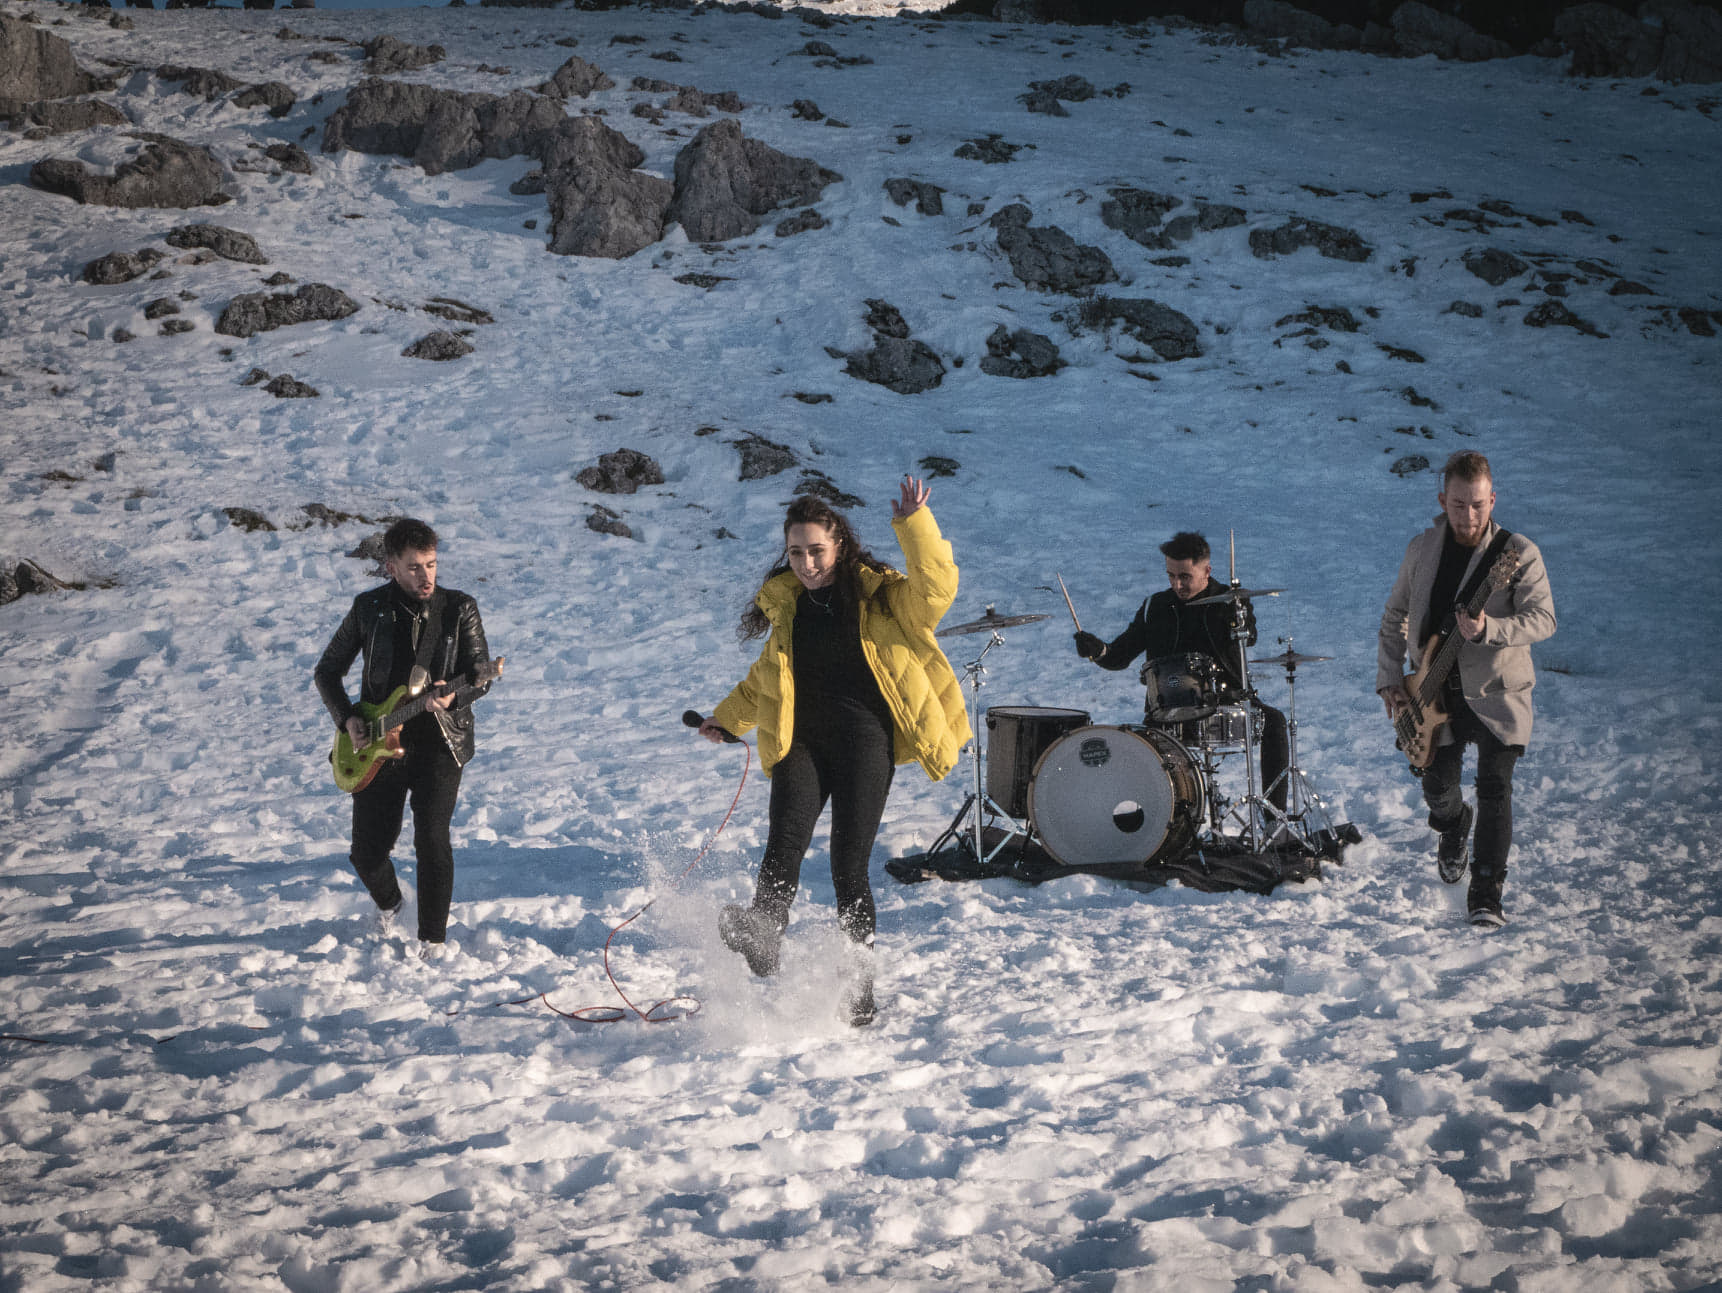
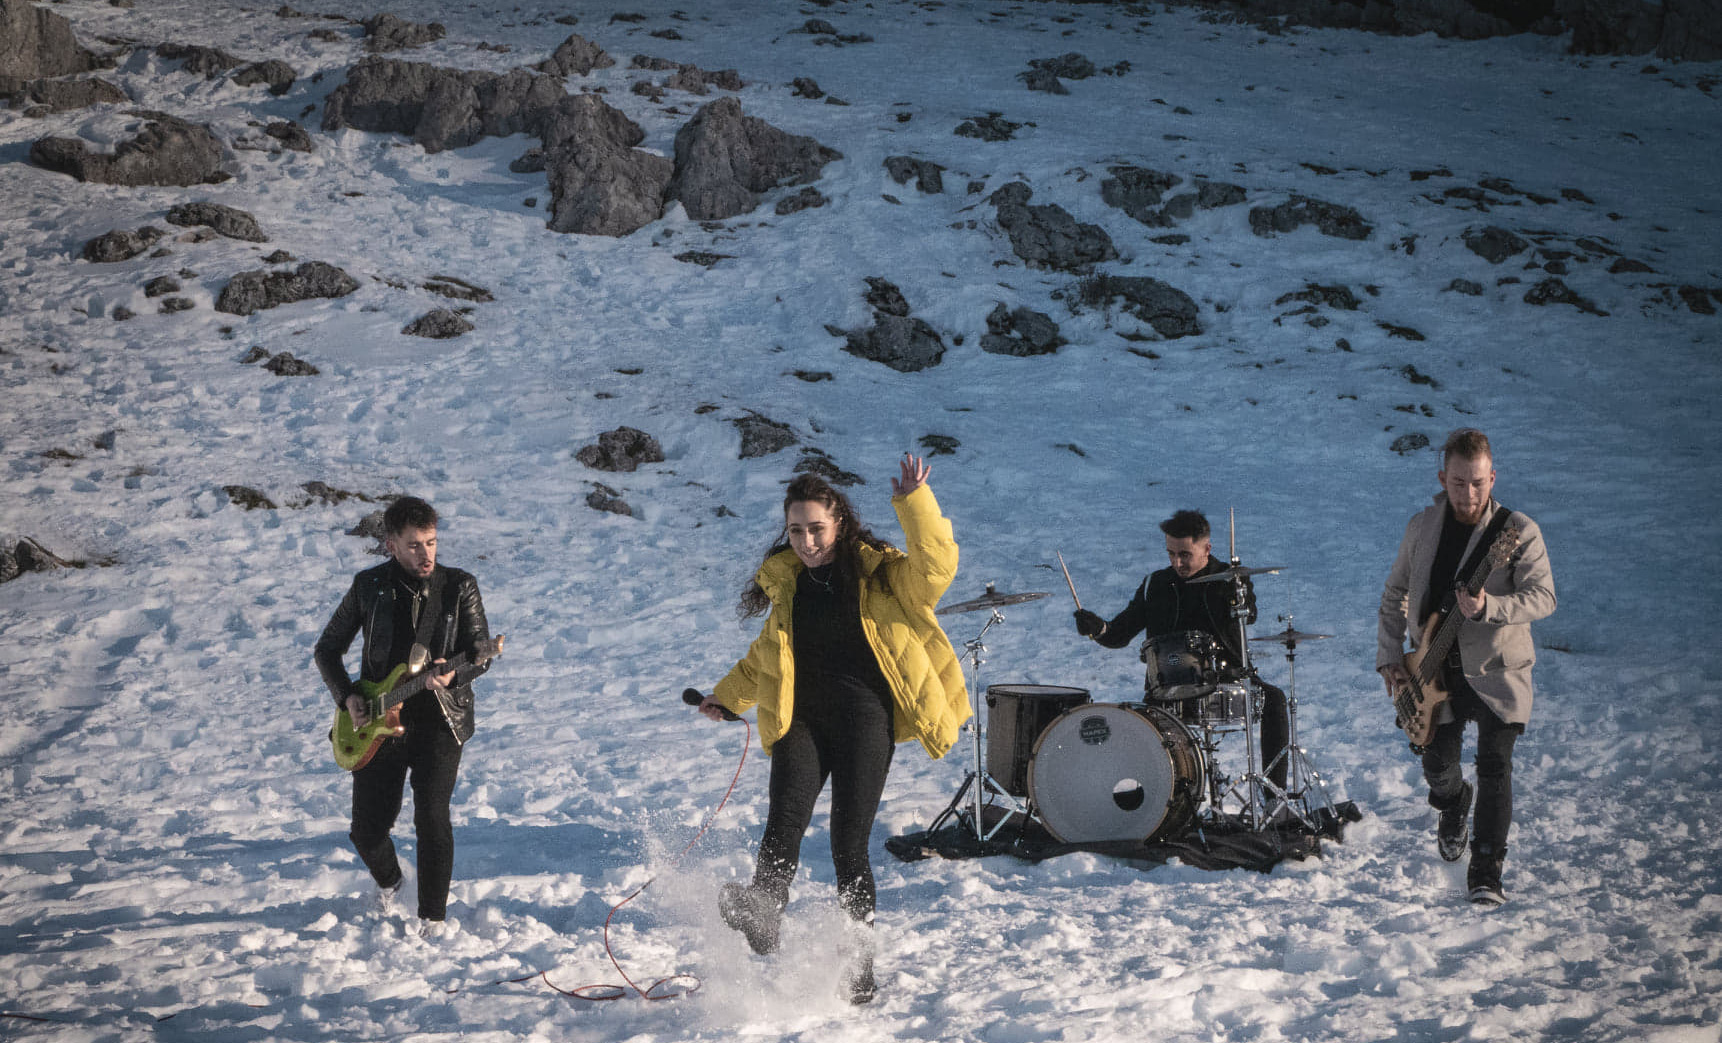
modif des imgs et changement about par galerie

diff --git a/index.html b/index.html
@@ -3,6 +3,7 @@
     <head>
         <meta charset="utf-8">
         <!-- <meta name="viewport" content="width=device-width, initial-scale=1"> -->
+        <meta name="viewport" content="width=device-width, initial-scale=1">
         <meta property="og:type" content="website">
         <meta property="og:title" content="inpvlse">
         <meta property="og:site_name" content="inpvlse">
@@ -25,7 +26,7 @@
         <div class="opening">
                
             <div class="opening--titre"><img class="opening--logo" src="./asset/inpvlseLogo.png" alt="logo-inpvlse"></div>                 
-            <img class="opening--img" src="asset/openingImg.jpg" alt="bg-opening">     
+            <img class="opening--img" src="asset/openingImg (2).jpg" alt="bg-opening">     
         </div>
 
         <div class="news">
@@ -41,7 +42,7 @@
                     Bon week end </p>
                 </div>
                 <div class="news__top--video">
-                    <video controls width="480" src="./asset/fadeVideo.mp4" poster="./asset/fadePoster.jpg" type="video/mp4">
+                    <video controls width="100%" src="./asset/fadeVideo.mp4" poster="./asset/fadePoster.jpg" type="video/mp4">
                     </video>
                 </div>
             </div>
@@ -62,7 +63,7 @@
             </div>
         </div>   
         
-        <div class="groupe">
+        <!-- <div class="groupe">
             <h1 class="groupe--h1"> Groupe </h1>
             <div class="groupe__top">
                 <div class="groupe__un">
@@ -95,6 +96,19 @@
                         <p> Lorem Ipsum is simply dummy text of the printing and typesetting industry. Lorem Ipsum has been the industry's standard dummy text ever since the 1500s, when an unknown printer took a galley of type and scrambled it to make a type specimen book. It has survived not only five centuries, but also the leap into electronic </p>
                     </div>
                 </div>
+            </div>
+        </div> -->
+
+        <div class="galerie">
+            <h1 class="galerie--h1"> galerie </h1>
+            <div class="galerie__wrapper">
+                <img src="./asset/neigeImg (1).jpg" class="galerie--img">
+                <img src="./asset/neigeImg (2).jpg" class="galerie--img">
+                <img src="./asset/neigeImg (3).jpg" class="galerie--img">
+                <img src="./asset/neigeImg (4).jpg" class="galerie--img">
+                <img src="./asset/neigeImg (5).jpg" class="galerie--img">
+                <img src="./asset/neigeImg (6).jpg" class="galerie--img">
+                <img src="./asset/neigeImg (7).jpg" class="galerie--img">
             </div>
         </div>
 

diff --git a/css/style.css b/css/style.css
@@ -103,13 +103,10 @@ p {
   justify-content: center;
   justify-content: space-around;
   border: 2px solid #07080a;
-  background-color: #07080a;
+  width: 100%;
 }
 .news__top--news, .news__bot--news {
   text-shadow: 2px 2px 2px #7ddf64;
-}
-.news--h1 {
-  color: #07080a;
 }
 
 .groupe {
@@ -153,14 +150,14 @@ p {
   width: 80%;
   display: flex;
   justify-content: center;
-  justify-content: center;
+  justify-content: space-around;
   margin-bottom: 100px;
 }
 .reseaux--h1 {
   color: #07080a;
 }
 .reseaux--img {
-  margin: auto 60px;
+  margin: auto;
   transition: transform 400ms ease-in-out;
 }
 .reseaux--img:hover {
@@ -184,6 +181,23 @@ p {
 }
 .footer--signature {
   margin-right: 20px;
+}
+
+.galerie {
+  background-color: #07080a;
+}
+.galerie--h1 {
+  color: white;
+}
+.galerie__wrapper {
+  display: grid;
+  grid-template-columns: repeat(3, 1fr);
+  grid-gap: 10px;
+  grid-auto-rows: minmax(100px, auto);
+}
+.galerie--img {
+  max-width: 100%;
+  border: 1px solid white;
 }
 
 /*# sourceMappingURL=style.css.map */

diff --git a/scss/layout/galerie.scss b/scss/layout/galerie.scss
@@ -1,0 +1,19 @@
+@import "../utils/variable.scss";
+@import "../utils/mixin.scss";
+
+.galerie {  
+    background-color: $clr-primary; 
+    &--h1 {
+        color: white;
+    }    
+    &__wrapper {
+        display: grid;
+        grid-template-columns: repeat(3, 1fr);
+        grid-gap: 10px;
+        grid-auto-rows: minmax(100px, auto);
+    }
+        &--img{
+            max-width: 100%;
+            border: 1px solid white;
+        }
+}

diff --git a/scss/layout/reseaux.scss b/scss/layout/reseaux.scss
@@ -4,13 +4,13 @@
 .reseaux {
     @include wrapper;
     @include flexbox;
-    justify-content: center;
+    justify-content: space-around;
     margin-bottom: 100px;
     &--h1 {
         color: $clr-primary;
     }
     &--img {
-        margin: auto 60px;
+        margin: auto ;
         transition: transform 400ms ease-in-out;
         &:hover {
             transform: scale(1.3);

diff --git a/scss/layout/news.scss b/scss/layout/news.scss
@@ -18,13 +18,10 @@
             @include flexbox;
             justify-content: space-around;
             border: 2px solid $clr-primary;
-            background-color: $clr-primary;
+            width: 100%;
         }
         &--news {
             text-shadow: 2px 2px 2px $clr-tertiary;
         }
-    }
-    &--h1 {
-        color: $clr-primary;
-    }
+    }  
 }

diff --git a/css/layout/galerie.css b/css/layout/galerie.css
@@ -1,0 +1,18 @@
+.galerie {
+  background-color: #07080a;
+}
+.galerie--h1 {
+  color: white;
+}
+.galerie__wrapper {
+  display: grid;
+  grid-template-columns: repeat(3, 1fr);
+  grid-gap: 10px;
+  grid-auto-rows: minmax(100px, auto);
+}
+.galerie--img {
+  max-width: 100%;
+  border: 1px solid white;
+}
+
+/*# sourceMappingURL=galerie.css.map */

diff --git a/css/layout/reseaux.css b/css/layout/reseaux.css
@@ -4,14 +4,14 @@
   width: 80%;
   display: flex;
   justify-content: center;
-  justify-content: center;
+  justify-content: space-around;
   margin-bottom: 100px;
 }
 .reseaux--h1 {
   color: #07080a;
 }
 .reseaux--img {
-  margin: auto 60px;
+  margin: auto;
   transition: transform 400ms ease-in-out;
 }
 .reseaux--img:hover {

diff --git a/css/layout/news.css b/css/layout/news.css
@@ -24,13 +24,10 @@
   justify-content: center;
   justify-content: space-around;
   border: 2px solid #07080a;
-  background-color: #07080a;
+  width: 100%;
 }
 .news__top--news, .news__bot--news {
   text-shadow: 2px 2px 2px #7ddf64;
-}
-.news--h1 {
-  color: #07080a;
 }
 
 /*# sourceMappingURL=news.css.map */

diff --git a/scss/style.scss b/scss/style.scss
@@ -13,3 +13,4 @@
 @import "./layout/groupe.scss";
 @import "./layout/reseaux.scss";
 @import "./layout/footer.scss";
+@import "./layout/galerie.scss";
